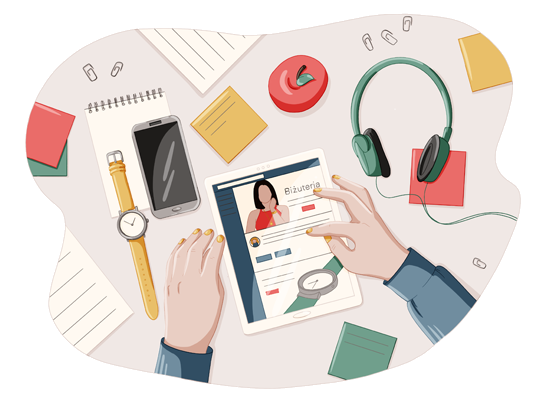
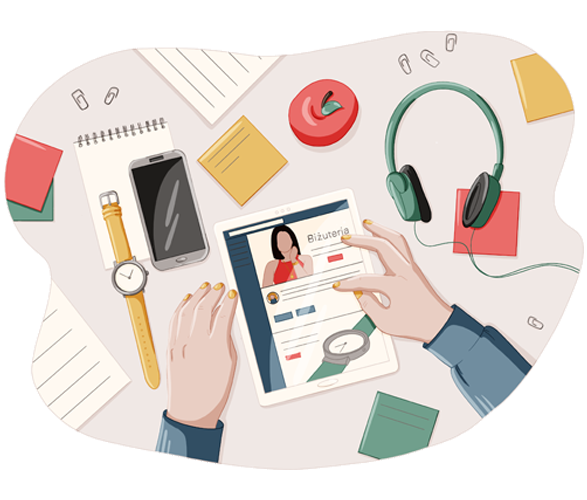
Add media queries to service section

diff --git a/src/index.html b/src/index.html
@@ -60,9 +60,8 @@
                 <li class="service__item">
                     <img src="img/internet.png" class="service__img">
                     <h2 class="heading-secondary--orange">materiały do internetu</h2>
-                    <p class="paragraph paragraph--service">Czas na promocję w Sieci? 
-                        Zaprojektuję proste strony www, 
-                        statyczne banery oraz grafiki do Social Mediów</p>
+                    <p class="paragraph paragraph--service">Czas na promocję w Sieci?</p>
+                    <p class="paragraph paragraph--service">Zaprojektuję proste strony www, statyczne banery oraz grafiki do Social Mediów</p>
                 </li>
                 <li class="service__item">
                     <img src="img/visual_identification.png" class="service__img">

diff --git a/src/scss/layout/_service.scss b/src/scss/layout/_service.scss
@@ -10,11 +10,34 @@
         text-align: center;
         list-style-type: none;
         margin-top: $space-m;
+        @include content-width-limit;
     }
 
     &__img {
-        width: 70vw;
+        width: 70%;
         max-width: 550px;
         margin: $space-m 0;
     }
 }
+
+@include respond(tab-port) {
+
+    @supports (display: grid) {
+
+        .service {  
+
+            &__list {
+                display: grid;
+                grid-template-columns: 1fr 1fr;
+                grid-gap: $space-s;
+                align-items: baseline; 
+            }
+
+            &__img {
+                width: 100%;
+            }
+        }  
+    }
+}
+
+

diff --git a/src/scss/base/_typography.scss b/src/scss/base/_typography.scss
@@ -40,7 +40,7 @@
 }
 
 .paragraph--service {
-    max-width: 400px;
+    max-width: 315px;
 }
 
 .paragraph--about {
@@ -71,5 +71,28 @@
     }
 }
 
-//MEDIA QUERIES 
+
+//MEDIA QUERIES
+
+@include respond(tab-land) {
+    .heading-secondary--orange {
+        font-size: $font-l;
+    }
+
+    .paragraph {
+        font-size: $font-s;
+    }
+
+    .heading-primary {
+    
+        .subslogan {
+            font-size: $font-l;
+        }
+    
+        .slogan {
+            font-size: $font-xl;
+        }
+    }
+
+}
 

diff --git a/src/scss/abstracts/_mixins.scss b/src/scss/abstracts/_mixins.scss
@@ -12,3 +12,19 @@
     margin: 0 auto;
 }
 
+//MEDIA QUERIES
+
+@mixin respond($breakpoints) {
+    @if $breakpoints == tab-port {
+        @media screen and (min-width: 768px) {@content}
+    };
+
+    @if $breakpoints == tab-land {
+        @media screen and (min-width: 960px) {@content}
+    };
+
+    @if $breakpoints == desktop {
+        @media screen and (min-width: 1367px) {@content}
+    }
+
+}

diff --git a/src/scss/base/_base.scss b/src/scss/base/_base.scss
@@ -21,4 +21,5 @@ body {
 .content {
     padding: $space-s;
     margin-top: 80px;
+    overflow-x: hidden;
 }
